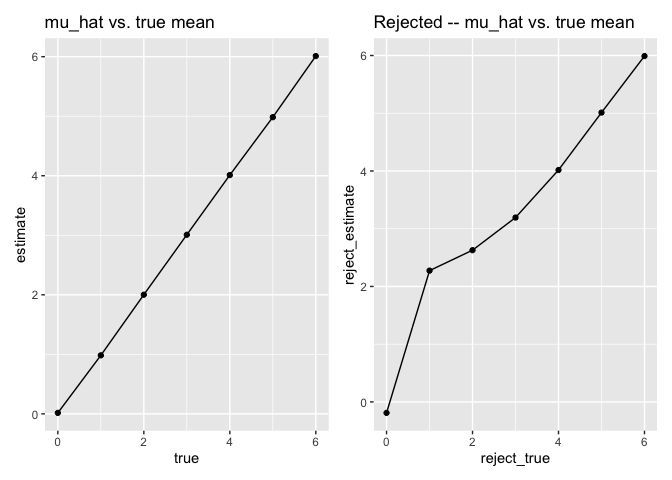
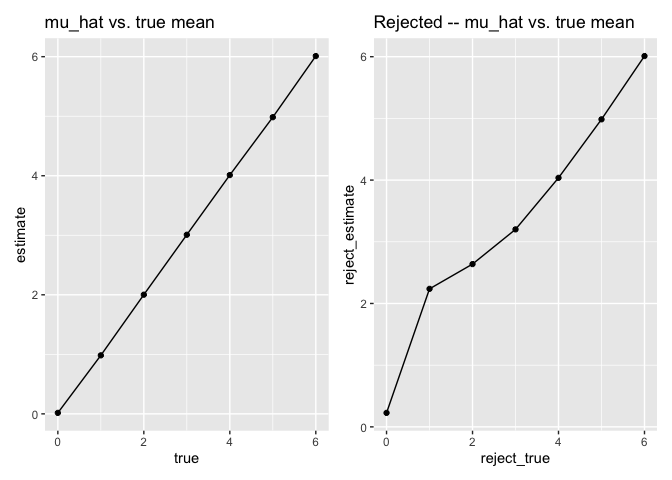
Finally......

diff --git a/p8105_hw5_yl4613.md b/p8105_hw5_yl4613.md
@@ -276,12 +276,7 @@ onlyreject = function(sim) {
   mean_reject = mean(a$mu_hat)
   return(mean_reject)
 }
-onlyreject(sim_5000(1))
-```
 
-    ## [1] 2.260597
-
-``` r
 true_mu_reject = 
   tibble(
     reject_estimate = c(onlyreject(sim_5000(0)), onlyreject(sim_5000(1)), onlyreject(sim_5000(2)), onlyreject(sim_5000(3)), onlyreject(sim_5000(4)), onlyreject(sim_5000(5)), onlyreject(sim_5000(6))))
